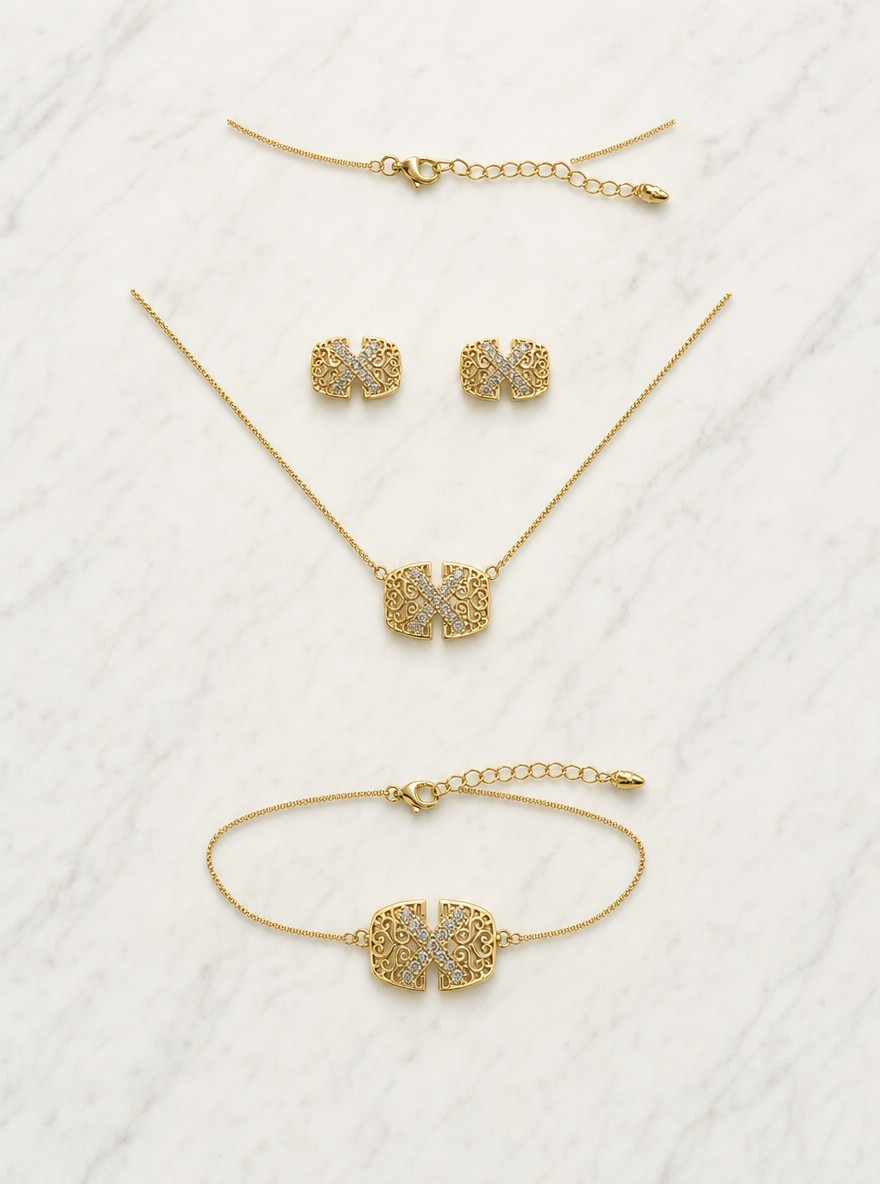
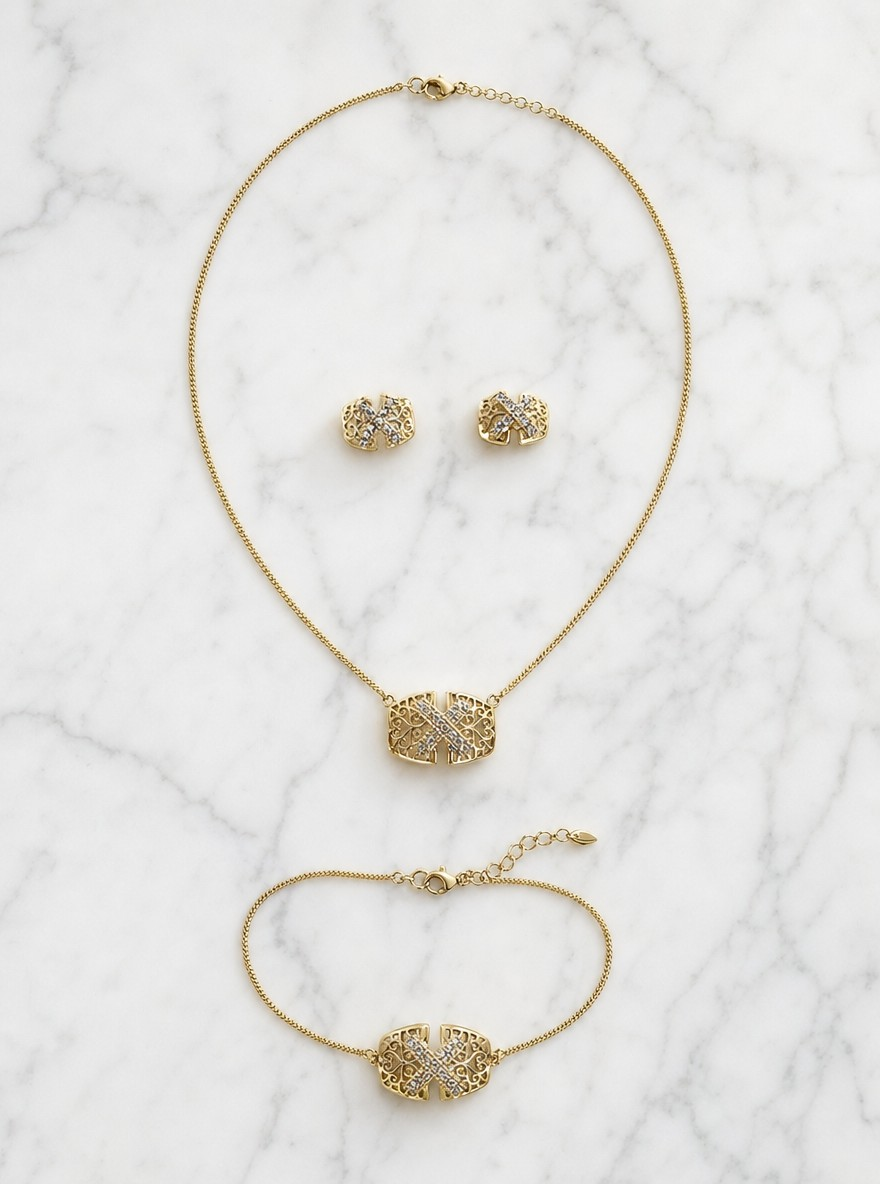
Fix: Reclassify new products to correct categories + complete necklace in 082
- 080-082, 083-086: Juego de 3 (34.99€)
- 087-088: Brazaletes (18.99€)
- 089-091: Anillos (14.99€)
- Fixed 082: completed necklace chain with matching clasp

diff --git a/index.html b/index.html
@@ -840,18 +840,18 @@ const products = [
   { id: 72, file: "img_db9f41eb2b0d_edited.jpg",       type: "Pendientes",           name: "Ruba — Cima Brillante",          price: 12.99 },
   { id: 73, file: "img_eea4857b4ddb_edited.jpg",       type: "Brazaletes",           name: "Zeinab — Adorno del Alma",       price: 18.99 },
   { id: 74, file: "img_fab0d6f4c4a1_edited.jpg",       type: "Colgantes",            name: "Rima — Poesía de Oro",           price: 17.99 },
-  { id: 75, file: "080_edited.jpg",                    type: "Brazaletes",           name: "Nura — Luz del Horizonte",       price: 18.99 },
-  { id: 76, file: "081_edited.jpg",                    type: "Colgantes",            name: "Bushra — Buena Nueva de Oro",    price: 17.99 },
-  { id: 77, file: "082_edited.jpg",                    type: "Brazaletes",           name: "Siwar — Tesoro de Oriente",      price: 18.99 },
-  { id: 78, file: "083_edited.jpg",                    type: "Pendientes",           name: "Jamila — Belleza Radiante",      price: 12.99 },
-  { id: 79, file: "084_edited.jpg",                    type: "Anillos",              name: "Aisha — Viva y Próspera",        price: 14.99 },
-  { id: 80, file: "085_edited.jpg",                    type: "Brazaletes",           name: "Soraya — Estrella de Plata",     price: 18.99 },
+  { id: 75, file: "080_edited.jpg",                    type: "Juego de 3",           name: "Nura — Luz del Horizonte",       price: 34.99 },
+  { id: 76, file: "081_edited.jpg",                    type: "Juego de 3",           name: "Bushra — Buena Nueva de Oro",    price: 34.99 },
+  { id: 77, file: "082_edited.jpg",                    type: "Juego de 3",           name: "Siwar — Tesoro de Oriente",      price: 34.99 },
+  { id: 78, file: "083_edited.jpg",                    type: "Juego de 3",           name: "Jamila — Belleza Radiante",      price: 34.99 },
+  { id: 79, file: "084_edited.jpg",                    type: "Juego de 3",           name: "Aisha — Viva y Próspera",        price: 34.99 },
+  { id: 80, file: "085_edited.jpg",                    type: "Juego de 3",           name: "Soraya — Estrella de Plata",     price: 34.99 },
   { id: 81, file: "086_edited.jpg",                    type: "Juego de 3",           name: "Nima — Bendición del Desierto",  price: 34.99 },
-  { id: 82, file: "087_edited.jpg",                    type: "Pendientes",           name: "Rajaa — Esperanza Dorada",       price: 12.99 },
-  { id: 83, file: "088_edited.jpg",                    type: "Colgantes",            name: "Samara — Fruto de Oro",          price: 17.99 },
-  { id: 84, file: "089_edited.jpg",                    type: "Brazaletes",           name: "Dalila — Guía Celestial",        price: 18.99 },
+  { id: 82, file: "087_edited.jpg",                    type: "Brazaletes",           name: "Rajaa — Esperanza Dorada",       price: 18.99 },
+  { id: 83, file: "088_edited.jpg",                    type: "Brazaletes",           name: "Samara — Fruto de Oro",          price: 18.99 },
+  { id: 84, file: "089_edited.jpg",                    type: "Anillos",              name: "Dalila — Guía Celestial",        price: 14.99 },
   { id: 85, file: "090_edited.jpg",                    type: "Anillos",              name: "Fairuz — Turquesa del Este",     price: 14.99 },
-  { id: 86, file: "091_edited.jpg",                    type: "Brazaletes",           name: "Latifa — Elegancia Sutil",       price: 18.99 },
+  { id: 86, file: "091_edited.jpg",                    type: "Anillos",              name: "Latifa — Elegancia Sutil",       price: 14.99 },
 ];
 
 const categories = [

diff --git a/index-en.html b/index-en.html
@@ -840,18 +840,18 @@ const products = [
   { id: 72, file: "img_db9f41eb2b0d_edited.jpg",       type: "Pendientes",           name: "Ruba — Shining Peak",          price: 12.99 },
   { id: 73, file: "img_eea4857b4ddb_edited.jpg",       type: "Brazaletes",           name: "Zeinab — Ornament of the Soul",       price: 18.99 },
   { id: 74, file: "img_fab0d6f4c4a1_edited.jpg",       type: "Colgantes",            name: "Rima — Poetry of Gold",           price: 17.99 },
-  { id: 75, file: "080_edited.jpg",                    type: "Brazaletes",           name: "Nura — Light of Horizon",        price: 18.99 },
-  { id: 76, file: "081_edited.jpg",                    type: "Colgantes",            name: "Bushra — Golden Tidings",        price: 17.99 },
-  { id: 77, file: "082_edited.jpg",                    type: "Brazaletes",           name: "Siwar — Eastern Treasure",       price: 18.99 },
-  { id: 78, file: "083_edited.jpg",                    type: "Pendientes",           name: "Jamila — Radiant Beauty",        price: 12.99 },
-  { id: 79, file: "084_edited.jpg",                    type: "Anillos",              name: "Aisha — Alive & Prosperous",     price: 14.99 },
-  { id: 80, file: "085_edited.jpg",                    type: "Brazaletes",           name: "Soraya — Silver Star",           price: 18.99 },
+  { id: 75, file: "080_edited.jpg",                    type: "Juego de 3",           name: "Nura — Light of Horizon",        price: 34.99 },
+  { id: 76, file: "081_edited.jpg",                    type: "Juego de 3",           name: "Bushra — Golden Tidings",        price: 34.99 },
+  { id: 77, file: "082_edited.jpg",                    type: "Juego de 3",           name: "Siwar — Eastern Treasure",       price: 34.99 },
+  { id: 78, file: "083_edited.jpg",                    type: "Juego de 3",           name: "Jamila — Radiant Beauty",        price: 34.99 },
+  { id: 79, file: "084_edited.jpg",                    type: "Juego de 3",           name: "Aisha — Alive & Prosperous",     price: 34.99 },
+  { id: 80, file: "085_edited.jpg",                    type: "Juego de 3",           name: "Soraya — Silver Star",           price: 34.99 },
   { id: 81, file: "086_edited.jpg",                    type: "Juego de 3",           name: "Nima — Desert Blessing",         price: 34.99 },
-  { id: 82, file: "087_edited.jpg",                    type: "Pendientes",           name: "Rajaa — Golden Hope",            price: 12.99 },
-  { id: 83, file: "088_edited.jpg",                    type: "Colgantes",            name: "Samara — Golden Fruit",          price: 17.99 },
-  { id: 84, file: "089_edited.jpg",                    type: "Brazaletes",           name: "Dalila — Celestial Guide",       price: 18.99 },
+  { id: 82, file: "087_edited.jpg",                    type: "Brazaletes",           name: "Rajaa — Golden Hope",            price: 18.99 },
+  { id: 83, file: "088_edited.jpg",                    type: "Brazaletes",           name: "Samara — Golden Fruit",          price: 18.99 },
+  { id: 84, file: "089_edited.jpg",                    type: "Anillos",              name: "Dalila — Celestial Guide",       price: 14.99 },
   { id: 85, file: "090_edited.jpg",                    type: "Anillos",              name: "Fairuz — Eastern Turquoise",     price: 14.99 },
-  { id: 86, file: "091_edited.jpg",                    type: "Brazaletes",           name: "Latifa — Subtle Elegance",       price: 18.99 },
+  { id: 86, file: "091_edited.jpg",                    type: "Anillos",              name: "Latifa — Subtle Elegance",       price: 14.99 },
 ];
 
 const categories = [
